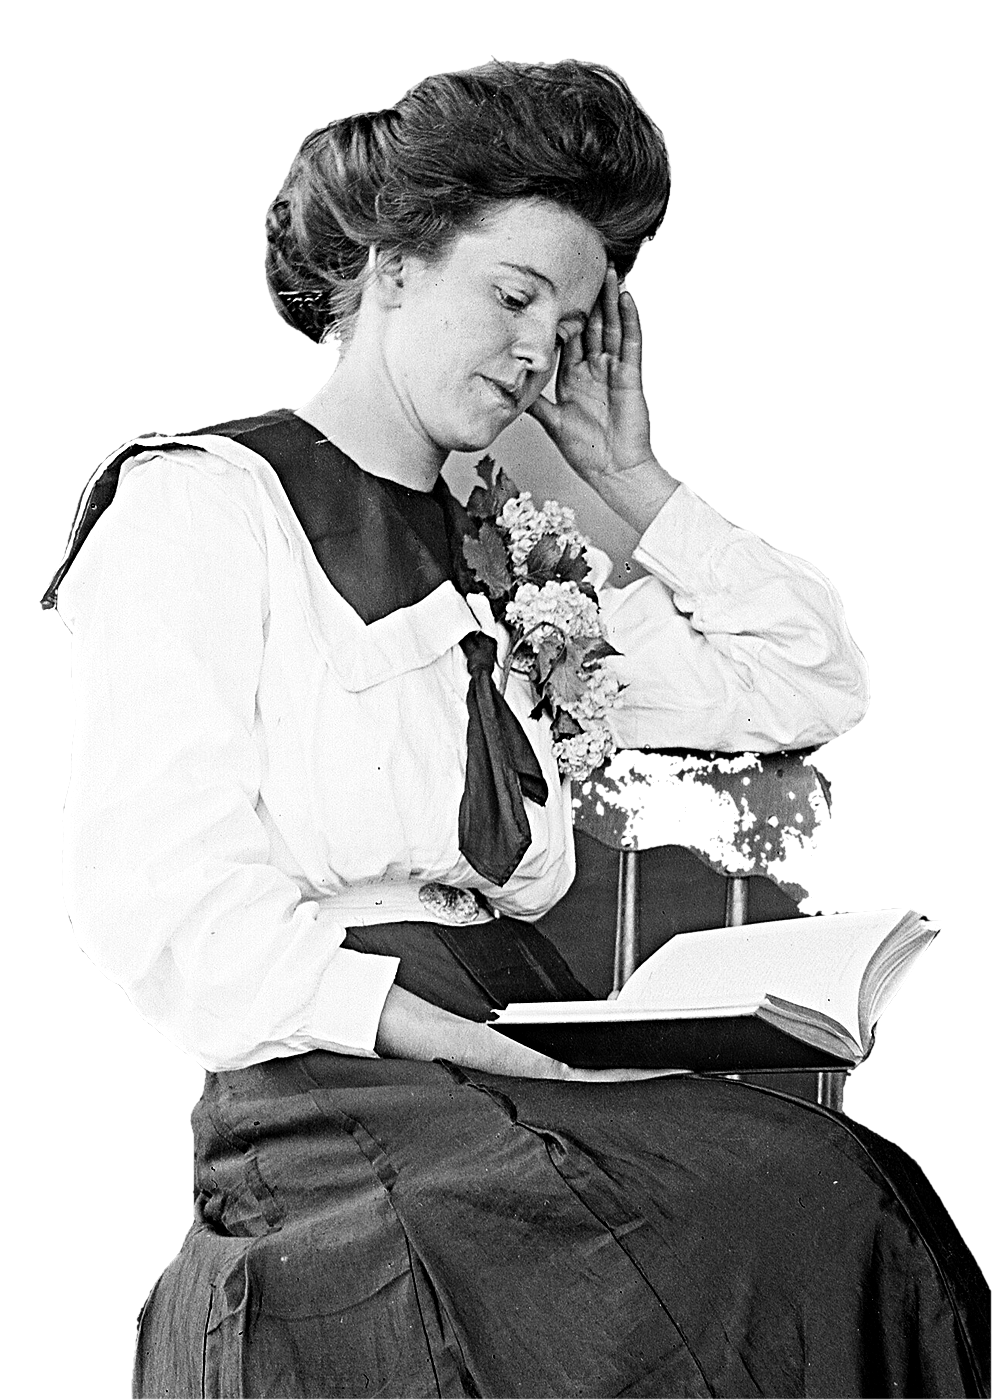
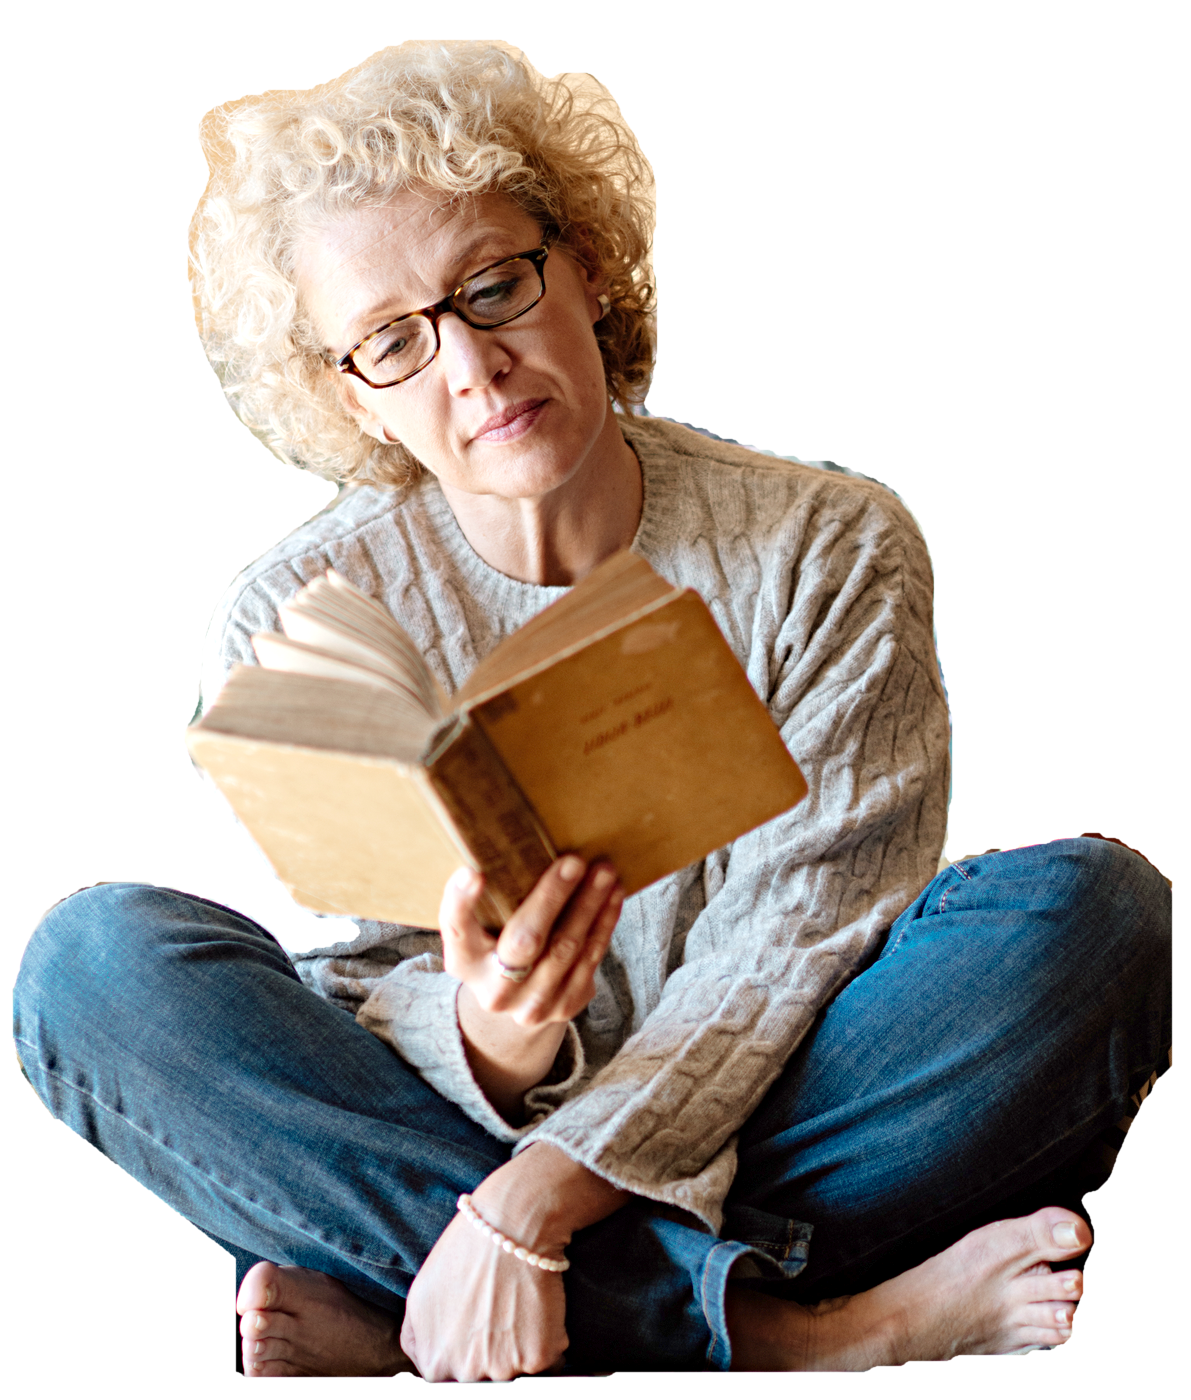
ReadingLess in colour: the 1910s glass plate swapped for a present-day colour photo of a woman reading cross-legged (Shixart1985, 2021, Wikimedia Commons, CC BY 2.0), fg matte with two armchair scraps cleared, baked with bake-photo.py --colour and shown with XeroxCutOut colour; same spot and height,

diff --git a/scripts/clips/wip-ya-boom/bake-ReadingLess.py b/scripts/clips/wip-ya-boom/bake-ReadingLess.py
@@ -1,19 +1,42 @@
-"""ReadingLess (wip-ya-boom, cut 46): the reader cut-out.
+"""ReadingLess (wip-ya-boom, cut 46): the reader cut-out, in colour (rev 3).
 
-Missouri State Archives, "Historic Fashion - 1910s" glass plate (assets_raw/photos/reader_Woman1910sSeatedReading.jpg),
-person matte from neal-matte.swift, cropped head to skirt, through the kit's one grade (bake-photo.py).
+A present-day colour photo: "Woman sitting on an armchair cross legged and reading an old book", Shixart1985, 2021,
+Wikimedia Commons, CC BY 2.0 (assets_raw/photos/reader_WomanArmchairCrossLeggedReading2021.jpg, 4912x7360).
+The matte is neal-matte.swift's fg mode on a 1600 px copy (it keeps her and the book, drops the armchair); two scraps of
+the armchair it keeps (the arm beside her raised knee, the fabric and shadow under her near knee) are cleared here. Then
+bake-photo.py --colour with the crop round the whole figure (it is resized to the photo first, so the 1600 px matte fits).
 
-  swift scripts/clips/neal-stephenson-trailer/neal-matte.swift <src.jpg> <scratch>/reader_mask.png person
+  ffmpeg -i <src.jpg> -vf scale=1600:-2 -q:v 2 <scratch>/reader_1600.jpg
+  swift scripts/clips/neal-stephenson-trailer/neal-matte.swift <scratch>/reader_1600.jpg <scratch>/mask_fg.png fg
   uv run --offline --with numpy --with pillow --with scipy python scripts/clips/wip-ya-boom/bake-ReadingLess.py \
-      <src.jpg> <scratch>/reader_mask.png
+      <src.jpg> <scratch>/mask_fg.png <scratch>
 """
 import subprocess
 import sys
 
-SRC, MASK = sys.argv[1:3]
-CROP = (430, 1080, 1720, 2900)  # head to the skirt, source px (aspect 0.7086)
+from PIL import Image, ImageDraw
+
+SRC, MASK, SCRATCH = sys.argv[1:4]
+# polygons to clear, in pixels of the 1600 x 2398 copy (scaled to the matte's own size below)
+CLEAR = [
+    [(1095, 1200), (1600, 1200), (1600, 1430), (1095, 1430)],  # the armchair's arm beside her raised knee
+    # the armchair's fabric and its shadow under her near knee, below the line of the jeans, left of her far foot
+    [(0, 1440), (140, 1460), (290, 1578), (290, 2398), (0, 2398)],
+]
+CROP_F = (90 / 1600, 500 / 2398, 1110 / 1600, 1700 / 2398)  # the whole figure, head to feet
+
+m = Image.open(MASK).convert("L")  # 1600 x 2398 x 1 B
+k = m.size[0] / 1600
+draw = ImageDraw.Draw(m)
+for poly in CLEAR:
+    draw.polygon([(x * k, y * k) for x, y in poly], fill=0)
+out = f"{SCRATCH}/reader_mask_clean.png"
+m.save(out)
+
+sw, sh = Image.open(SRC).size
+crop = (round(CROP_F[0] * sw), round(CROP_F[1] * sh), round(CROP_F[2] * sw), round(CROP_F[3] * sh))
 subprocess.run(
-    [sys.executable, "scripts/clips/wip-anthropic/bake-photo.py", SRC, "public/wip-ya-boom/rl_reader.png", "--matte", MASK,
-     "--crop", ",".join(map(str, CROP)), "--max", "1400"],
+    [sys.executable, "scripts/clips/wip-anthropic/bake-photo.py", SRC, "public/wip-ya-boom/rl_reader.png", "--matte", out,
+     "--crop", ",".join(map(str, crop)), "--max", "1400", "--colour"],
     check=True,
 )
